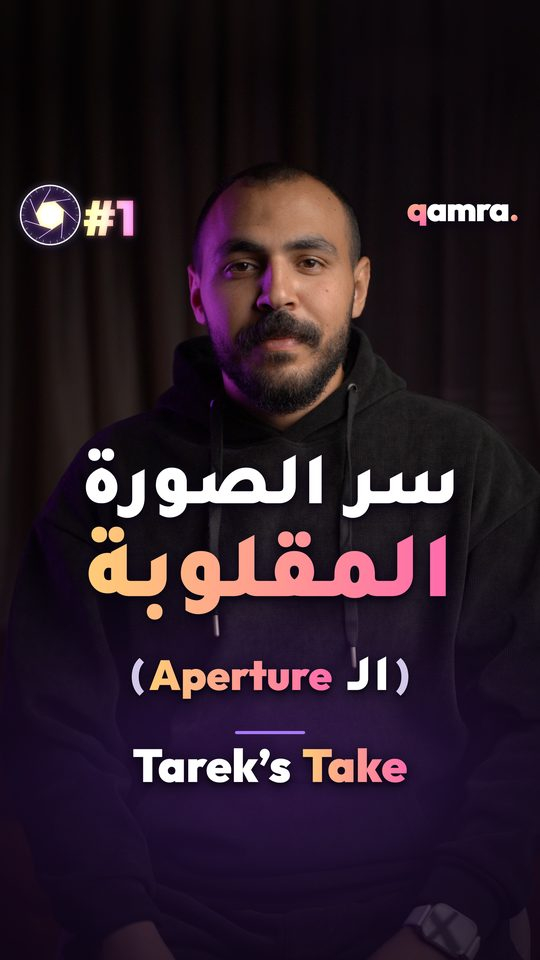
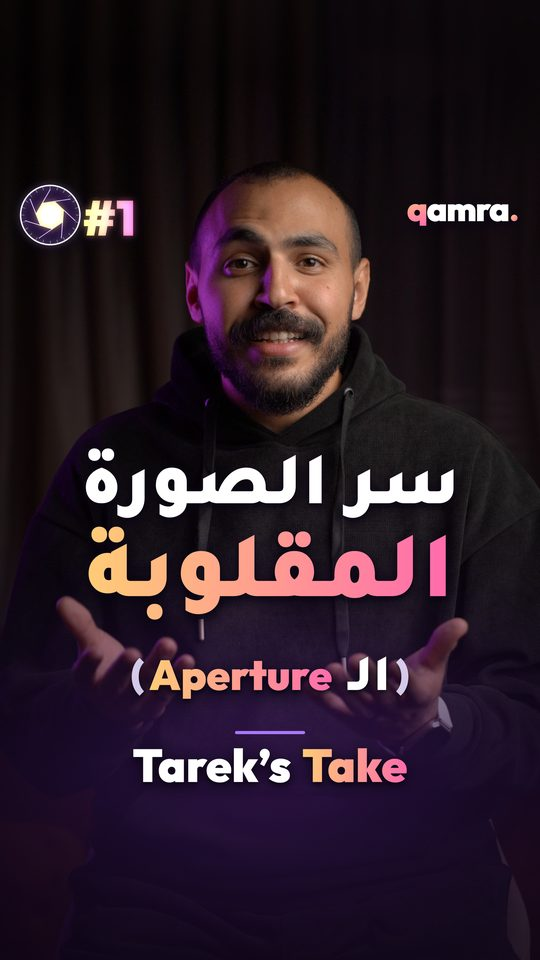
Add files via upload

diff --git a/index.html b/index.html
@@ -6,7 +6,8 @@
 <meta name="description" content="Qamra: photography, film and production in Cairo. Home of Tarek's Take.">
 <meta property="og:title" content="Qamra">
 <meta property="og:description" content="Light in. Story out. Photography · Film · Production · Cairo">
-<meta property="og:image" content="img/ep1.jpg">
+<meta property="og:image" content="https://shotonqamra.com/img/ep1.jpg">
+<link rel="canonical" href="https://shotonqamra.com/">
 <title>Qamra</title>
 
 <link rel="stylesheet" href="https://fonts.googleapis.com/css2?family=Outfit:wght@400;500;700;900&family=Tajawal:wght@500;700;800;900&display=swap">
@@ -131,6 +132,15 @@ textarea{min-height:120px;resize:vertical}
 .ok{color:var(--amber);font-weight:800;margin:0}
 @media (max-width:860px){.contact{grid-template-columns:1fr}}
 
+.thumb{position:relative}
+.pbtn{position:absolute;left:50%;top:50%;width:68px;height:68px;margin:-34px 0 0 -34px;border-radius:50%;background:var(--grad);box-shadow:0 6px 24px rgba(0,0,0,.45)}
+.pbtn::after{content:"";position:absolute;left:27px;top:21px;border-style:solid;border-width:13px 0 13px 21px;border-color:transparent transparent transparent #1a0b26}
+.ep.play:hover .pbtn{transform:scale(1.08)}
+.vbox{position:fixed;inset:0;z-index:20;background:rgba(8,3,14,.88);display:flex;align-items:center;justify-content:center;padding:max(16px,env(safe-area-inset-top,0px)) max(16px,env(safe-area-inset-right,0px)) max(16px,env(safe-area-inset-bottom,0px)) max(16px,env(safe-area-inset-left,0px))}
+.vbox .frame{position:relative;height:min(86vh,800px);aspect-ratio:9/16;max-width:100%;border-radius:18px;overflow:hidden;background:#000;box-shadow:0 20px 60px rgba(0,0,0,.6)}
+.vbox iframe{width:100%;height:100%;border:0;display:block}
+.vbox .x{position:absolute;top:max(14px,env(safe-area-inset-top,0px));right:max(14px,env(safe-area-inset-right,0px));width:44px;height:44px;border-radius:50%;border:1px solid var(--line);background:rgba(22,11,34,.9);color:#fff;font:700 22px var(--display);cursor:pointer}
+.vbox .yt{position:absolute;bottom:max(14px,env(safe-area-inset-bottom,0px));left:50%;transform:translateX(-50%);color:var(--soft);font-weight:700;font-size:14px}
 footer{border-top:1px solid var(--line);padding-block:40px}
 footer .wrap{display:flex;justify-content:space-between;align-items:center;gap:18px;flex-wrap:wrap}
 .socials{display:flex;gap:16px;flex-wrap:wrap}
@@ -229,10 +239,8 @@ footer small{color:var(--muted)}
       <div class="ser"><b>SERIES 3</b><strong data-en="Editing" data-ar="المونتاج">Editing</strong><small data-en="Coming later" data-ar="بعدها">Coming later</small></div>
     </div>
     <div class="eps">
-      <a class="ep" href="#show"><img src="img/ep1.jpg" alt="Episode 1 cover: Aperture" loading="lazy"><div class="meta"><div class="no">S1 · E01</div><div class="ti">سر الصورة المقلوبة · Aperture</div></div></a>
-      <a class="ep" href="#show"><img src="img/ep2.jpg" alt="Episode 2 cover: Shutter Speed" loading="lazy"><div class="meta"><div class="no">S1 · E02</div><div class="ti">سر نعومة الحركة · Shutter Speed</div></div></a>
-      <a class="ep" href="#show"><img src="img/ep3.jpg" alt="Episode 3 cover: ISO" loading="lazy"><div class="meta"><div class="no">S1 · E03</div><div class="ti">خدعة الإضاءة · ISO</div></div></a>
-      <div class="ep soon"><div><div class="big">E04</div><div data-en="Next episode soon" data-ar="الحلقة الجاية قريب">Next episode soon</div></div></div>
+      <a class="ep play" href="https://www.youtube.com/shorts/OO6G996nrPk" target="_blank" rel="noopener" data-yt="OO6G996nrPk"><div class="thumb"><img src="img/ep1.jpg" alt="Episode 1 cover: Aperture" loading="lazy"><span class="pbtn" aria-hidden="true"></span></div><div class="meta"><div class="no">S1 · E01</div><div class="ti">سر الصورة المقلوبة · Aperture</div></div></a>
+      <div class="ep soon"><div><div class="big">E02</div><div data-en="Next episode soon" data-ar="الحلقة الجاية قريب">Next episode soon</div></div></div>
     </div>
   </div>
 </section>
@@ -257,7 +265,7 @@ footer small{color:var(--muted)}
       <div class="eyebrow" data-en="Work with us" data-ar="اشتغل معانا">Work with us</div>
       <h2 data-en="Let’s make something." data-ar="يلا نعمل حاجة.">Let’s make something.</h2>
       <div class="ways">
-        <div class="way"><div><small>EMAIL</small><span class="v" id="mail">tarek.do114@hotmail.com</span></div><button class="copy" type="button" data-copy="mail" data-en="Copy" data-ar="نسخ">Copy</button></div>
+        <div class="way"><div><small>EMAIL</small><span class="v" id="mail">info@shotonqamra.com</span></div><button class="copy" type="button" data-copy="mail" data-en="Copy" data-ar="نسخ">Copy</button></div>
         <div class="way"><div><small>WHATSAPP</small><span class="v" id="wa">+20 101 583 4694</span></div><div style="display:flex;gap:8px"><a class="copy" style="text-decoration:none" href="https://wa.me/201015834694" target="_blank" rel="noopener" data-en="Chat" data-ar="راسلنا">Chat</a><button class="copy" type="button" data-copy="wa" data-en="Copy" data-ar="نسخ">Copy</button></div></div>
         <div class="way"><div><small>INSTAGRAM · TIKTOK · YOUTUBE</small><span class="v">@shotonqamra</span></div></div>
       </div>
@@ -319,6 +327,20 @@ footer small{color:var(--muted)}
       var el=document.getElementById(b.getAttribute('data-copy')), txt=el.textContent;
       function sel(){var r=document.createRange();r.selectNodeContents(el);var s=getSelection();s.removeAllRanges();s.addRange(r);}
       if(navigator.clipboard&&navigator.clipboard.writeText){ navigator.clipboard.writeText(txt).then(function(){b.textContent='✓'},sel); } else sel();
+    });
+  });
+
+  document.querySelectorAll('[data-yt]').forEach(function(a){
+    a.addEventListener('click',function(e){
+      e.preventDefault();
+      var id=a.getAttribute('data-yt'), box=document.createElement('div');
+      box.className='vbox'; box.setAttribute('role','dialog'); box.setAttribute('aria-label','Video');
+      box.innerHTML='<div class="frame"><iframe src="https://www.youtube-nocookie.com/embed/'+id+'?autoplay=1&rel=0&playsinline=1" allow="autoplay; encrypted-media; picture-in-picture; fullscreen" allowfullscreen title="Tarek’s Take"></iframe></div><button class="x" type="button" aria-label="Close">×</button><a class="yt" href="'+a.href+'" target="_blank" rel="noopener">Watch on YouTube ↗</a>';
+      function close(){box.remove();document.removeEventListener('keydown',esc)}
+      function esc(ev){if(ev.key==='Escape')close()}
+      box.addEventListener('click',function(ev){if(ev.target===box||ev.target.classList.contains('x'))close()});
+      document.addEventListener('keydown',esc);
+      document.body.appendChild(box); box.querySelector('.x').focus();
     });
   });
 
